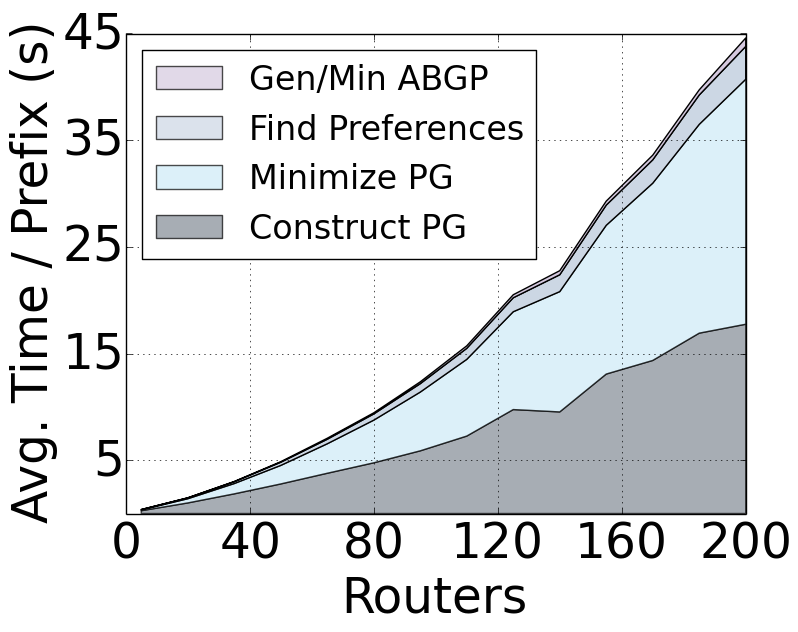
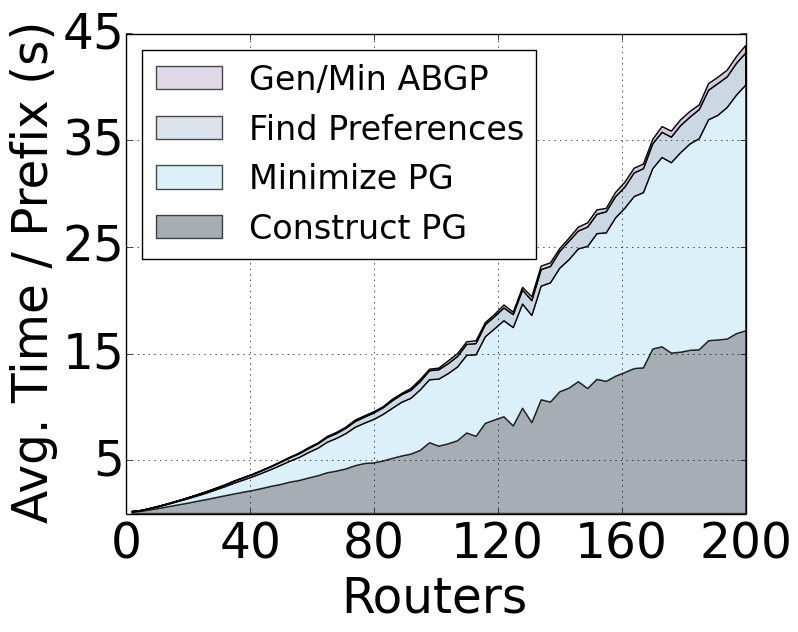
finished experiments with finer granularity

diff --git a/data/backbone.py b/data/backbone.py
@@ -107,10 +107,10 @@ num_nodes2 = map(lambda x: x, num_nodes)
 sizes_raw_per = map(lambda (size,n): size/n, zip(sizes_raw, num_nodes))
 sizes_compressed_per = map(lambda (size,n): size/n, zip(sizes_compressed, num_nodes))
 
-num_nodes1 = num_nodes1[2::3]
-num_nodes2 = num_nodes2[2::3]
-sizes_raw_per = sizes_raw_per[2::3]
-sizes_compressed_per = sizes_compressed_per[2::3]
+num_nodes1 = num_nodes1[2::5]
+num_nodes2 = num_nodes2[2::5]
+sizes_raw_per = sizes_raw_per[2::5]
+sizes_compressed_per = sizes_compressed_per[2::5]
 
 fig = plt.figure()
 ax1 = fig.add_subplot(111)
